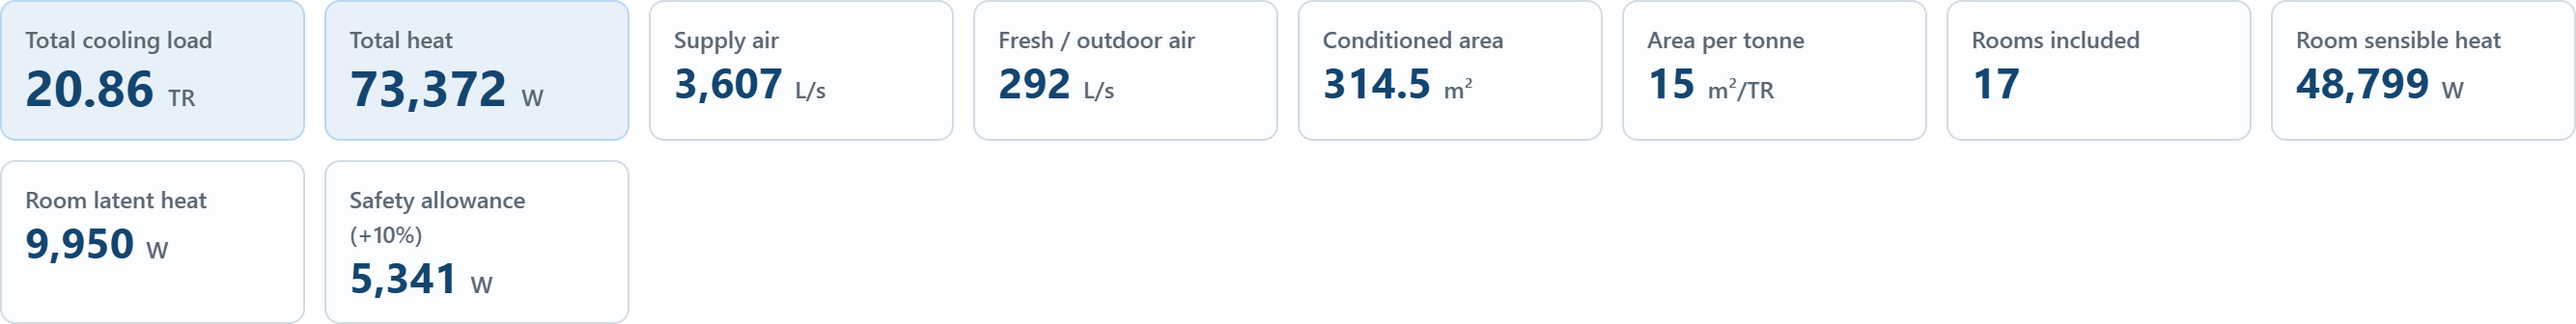
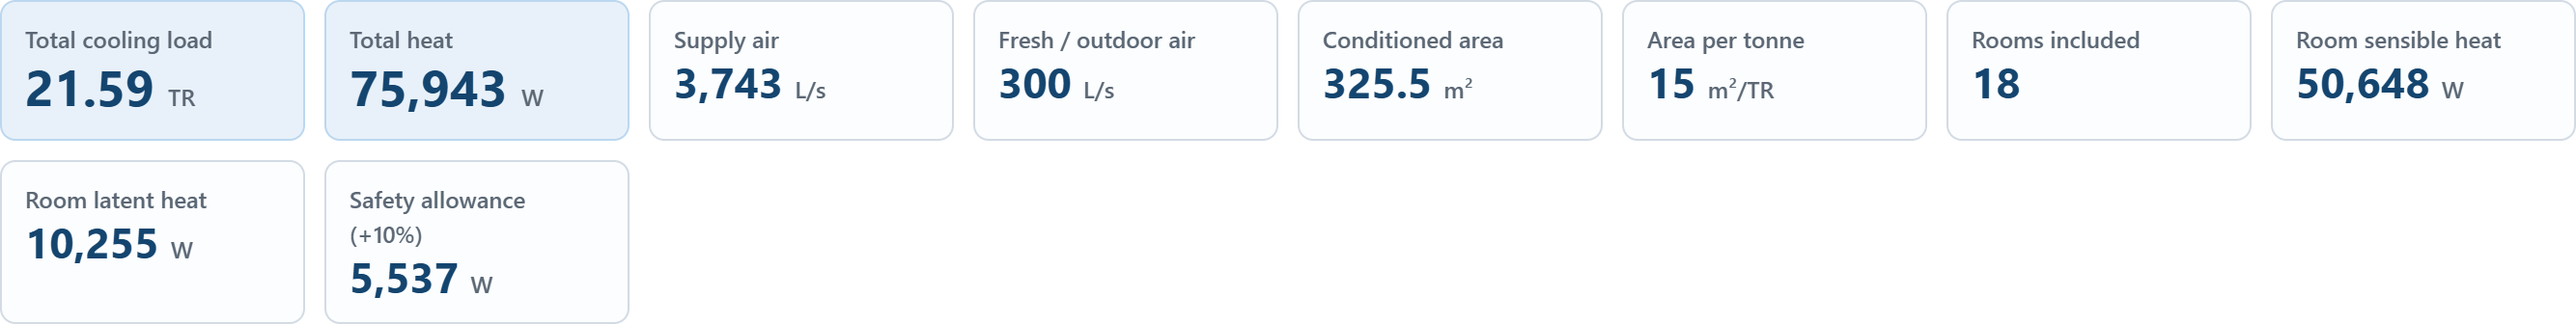
Case study: re-measured live numbers after the room splitter (22 of 56, 21.59 TR; house 10 of 10)

diff --git a/case-study.html b/case-study.html
@@ -43,8 +43,8 @@
       <h1>Case study: cooling loads from a floor plan</h1>
       <p class="lead">
         LoadLens reads a real architectural sheet and returns a room-wise cooling load schedule. On the
-        public sample drawing it fills <strong>21 room areas from the drawing itself</strong> and produces
-        <strong>20.86 TR</strong> of cooling load over 17 conditioned rooms &mdash; with the sheet's own
+        public sample drawing it fills <strong>22 room areas from the drawing itself</strong> and produces
+        <strong>21.59 TR</strong> of cooling load over 18 conditioned rooms &mdash; with the sheet's own
         units detected, and every room it could not measure left honestly blank instead of guessed.
       </p>
       <p>
@@ -61,8 +61,8 @@
         <div class="panel">
           <h3>The measured result</h3>
           <p class="small muted">
-            20.86 TR &middot; 73,372 W total heat &middot; 3,607 L/s supply air &middot; 314.5 m&sup2; conditioned
-            &middot; 15 m&sup2;/TR &middot; 17 rooms in the load, 21 areas taken from the drawing.
+            21.59 TR &middot; 75,943 W total heat &middot; 3,743 L/s supply air &middot; 325.5 m&sup2; conditioned
+            &middot; 15 m&sup2;/TR &middot; 18 rooms in the load, 22 areas taken from the drawing.
           </p>
         </div>
         <div class="panel">
@@ -100,15 +100,15 @@
         <h2>What it does</h2>
       </div>
       <figure>
-        <img src="img/case-plan-areas.png" alt="An architectural floor plan inside LoadLens, with 21 room areas measured from the drawing's own outlines" width="1300" height="736" loading="lazy">
+        <img src="img/case-plan-areas.png" alt="An architectural floor plan inside LoadLens, with 22 room areas measured from the drawing's own outlines" width="2668" height="1512" loading="lazy">
         <figcaption class="small muted">
           The public sample sheet. <em>Fill areas from the drawing</em> measures the room areas from the
-          plan's own closed wall outlines &mdash; 21 rooms here &mdash; and every filled area is drawn back on
+          plan's own closed wall outlines &mdash; 22 rooms here &mdash; and every filled area is drawn back on
           the plan so it can be seen and checked.
         </figcaption>
       </figure>
       <figure>
-        <img src="img/case-summary.png" alt="LoadLens result cards showing 20.86 TR total cooling load, 73,372 W total heat, 3,607 L/s supply air and 314.5 square metres conditioned" width="2668" height="336" loading="lazy">
+        <img src="img/case-summary.png" alt="LoadLens result cards showing 21.59 TR total cooling load, 75,943 W total heat, 3,743 L/s supply air and 325.5 square metres conditioned" width="2668" height="336" loading="lazy">
         <figcaption class="small muted">
           The schedule the drawing produces: total load, supply air, fresh air, conditioned area and
           area per tonne &mdash; in metric or imperial, chosen from the sheet's own units.
@@ -136,9 +136,12 @@
         </li>
         <li>
           <strong>Measure only when the outline is unambiguous.</strong> A room area is taken from the
-          drawing only when a closed wall outline exists, exactly one room name sits inside it, the measured
-          area falls in a plausible range, and it does not really overlap another room. Otherwise the room
-          keeps a blank area and a plain-English reason.
+          drawing only when a closed wall outline exists, the part of it a room owns holds exactly one room
+          name, the measured area falls in a plausible range, and it does not really overlap another room.
+          Otherwise the room keeps a blank area and a plain-English reason. Where one traced outline holds
+          several room names, the tool now splits it at door-width openings and gives each room its own part;
+          a space with no name stays with no room; on the house sample this took the filled areas from 6 to
+          10 of 10.
         </li>
         <li>
           <strong>Do the load in SI, once.</strong> The calculation runs in SI as a single source of truth.
@@ -163,9 +166,10 @@
       </p>
       <ul>
         <li>
-          On the sample sheet the tool fills 21 of 56 rooms and states the reason for the other 35:
-          <em>"33 because one outline holds several room names, 2 because the traced shape did not look like a
-          room."</em> It does not quietly fill them with something plausible.
+          On the sample sheet the tool fills 22 of 56 rooms and states the reason for the other 34:
+          <em>"28 because the room is open to the next space, so its edge is not on the drawing, 4 because one
+          outline holds several room names, 2 because the traced shape did not look like a room."</em> It does
+          not quietly fill them with something plausible.
         </li>
         <li>A room whose area is unknown stays out of the load and is flagged, rather than carrying a guess.</li>
         <li>
@@ -188,9 +192,9 @@
       <ul>
         <li>
           <strong>Open-plan sheets are the hard case.</strong> When one closed outline contains many room
-          names &mdash; typical of an open office floor &mdash; the tool declines to split it. Auto-fill is
-          about 38&nbsp;% on the sample office sheet, and above 60&nbsp;% on an enclosed house plan; the rest is
-          manual, by design.
+          names &mdash; typical of an open office floor &mdash; most of those rooms still cannot be bounded
+          from the drawing alone. Auto-fill is about 39&nbsp;% on the sample office sheet, and above 60&nbsp;%
+          on an enclosed house plan; the rest is manual, by design.
         </li>
         <li>
           <strong>The drawing scale is still the user's to confirm.</strong> Areas depend on the scale printed
